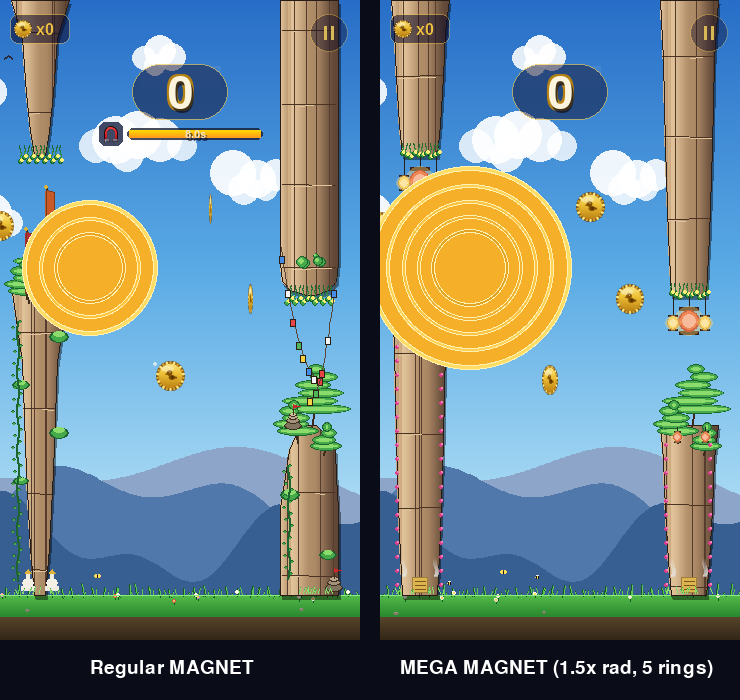
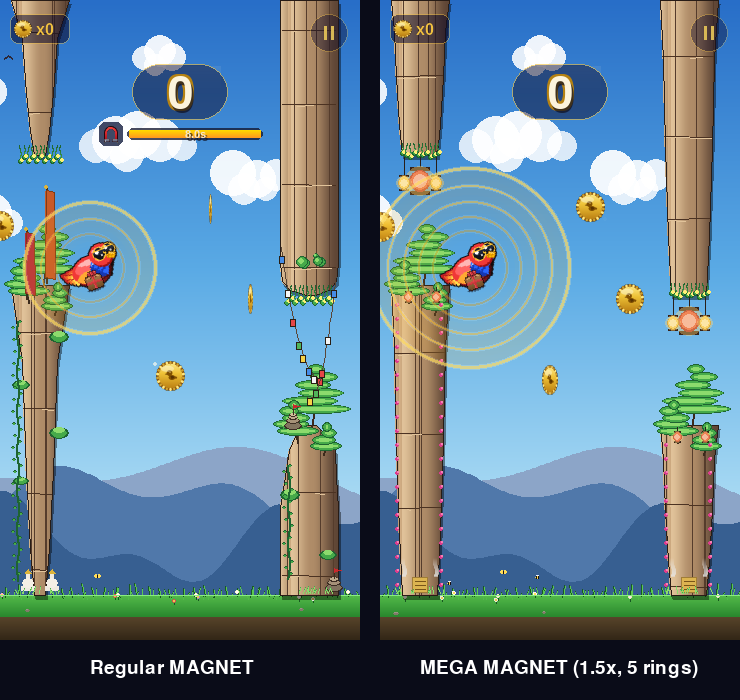
MAGNET field: fix solid-yellow regression — back to SRCALPHA sub-surface
User: "Look at the power up of the magnet, and look how the force
field of it looks like. It's not how you did it." Compared the live
render against the polished V1 reference at
docs/screenshots/powerups/magnet/field_v1_polished.png and
live_preview.png — original shows transparent rings with Pip clearly
visible inside; live shows a solid gold blob covering the bird.

Root cause traced to commit e74339a (RAIL/MEGA MAGNET wiring) which
changed scenes.py from painting the field onto a per-frame SRCALPHA
sub-surface (then blitting once) to drawing each layer DIRECTLY on
self.screen "to save the buffer alloc". With 18 nested glow circles +
3 ring passes hitting the screen, the alpha accumulates pixel-by-
pixel until the centre bakes solid. Also bumped the glow alpha from
the polished V1 calibration (40) to 72 around the same time.

Restored the polished V1 approach for both regular AND mega:
  * Paint everything to a SRCALPHA sub-surface (rad * 2 + 8 square)
  * self.screen.blit(field, ...) once at the end
  * Glow alpha back to 40 (matches the V1 design pass)

The 250 KB buffer at the mega's 1.5× radius is trivial on WASM —
the "multi-MB" concern from e74339a was based on the 2.0× V3 design
that was already dropped.

Changed region(s): [[0.4973, 0.24, 0.777, 0.54], [0.0311, 0.27, 0.2176, 0.48], [0.5284, 0.93, 0.9635, 0.99]]

diff --git a/game/scenes.py b/game/scenes.py
@@ -1138,8 +1138,14 @@ class App:
         # The force radius (MEGA_MAGNET_RADIUS_MULT = 5×) lives in
         # world.py and intentionally exceeds the visual.
         #
-        # Drawn directly onto self.screen (no intermediate SRCALPHA
-        # buffer).
+        # Painted to a per-frame SRCALPHA sub-surface then blit-ONCE to
+        # the screen — the polished V1 approach. Direct-to-screen
+        # drawing (introduced in commit e74339a to save the buffer
+        # alloc) accumulates alpha pixel-by-pixel as each of the 18
+        # glow circles + 3 ring passes hit the screen, baking the
+        # centre into a solid gold blob and losing the see-through
+        # ring outlines. With rad=1.5×, the buffer is ~250 KB —
+        # trivial on WASM.
         if self.world.magnet_timer > 0 or self.world.mega_magnet_timer > 0:
             from game.config import MAGNET_RADIUS
             import math as _math
@@ -1161,8 +1167,9 @@ class App:
                     (0.78, 0.6,  140, 2, 0.85, (255, 195,  60)),
                     (0.55, 1.2,  100, 2, 0.70, (235, 165,  35)),
                 )
-            cx_screen = int(self.world.bird.x) + sx
-            cy_screen = int(self.world.bird.y) + sy
+            field = pygame.Surface((rad * 2 + 8, rad * 2 + 8),
+                                    pygame.SRCALPHA)
+            lcx, lcy = rad + 4, rad + 4
 
             # Outer-ring pulse factor — drives BOTH the rings and the glow
             BREATH = 0.30
@@ -1172,18 +1179,19 @@ class App:
             glow_rad = rad * outer_factor
 
             # Inner radial glow — bell-curve falloff peaking near the
-            # outer edge, gold colour, scaled by the same pulse. Stays
-            # at the regular MAGNET radius in mega too — the outer
-            # rings ARE the mega's reach, the glow is the core ball.
+            # outer edge, gold colour, scaled by the same pulse.
+            # Alpha 40 matches the polished V1 calibration (was bumped
+            # to 72 in the direct-to-screen detour, causing the gold
+            # to look solid after 18 overlapping draws).
             GLOW_COL = (245, 175, 40)
             for i in range(18, 0, -1):
                 r = int(glow_rad * i / 18)
                 inner_t = i / 18
                 bell = _math.exp(-((inner_t - 0.85) ** 2) / 0.15)
-                a = int(72 * bell)
+                a = int(40 * bell)
                 if a > 0:
-                    pygame.draw.circle(self.screen, (*GLOW_COL, a),
-                                       (cx_screen, cy_screen), r)
+                    pygame.draw.circle(field, (*GLOW_COL, a),
+                                       (lcx, lcy), r)
 
             # Rings with per-ring gold tints, slightly out of phase.
             AA_COL = (255, 240, 180)
@@ -1193,12 +1201,16 @@ class App:
                 u = (s + 1) / 2
                 rr = int(rad * rfac * (1.0 - amp * (1.0 - u)))
                 # Anti-alias ring with two ⅓-alpha satellites + main pass
-                pygame.draw.circle(self.screen, (*AA_COL, alpha // 3),
-                                   (cx_screen, cy_screen), rr + 1, width)
-                pygame.draw.circle(self.screen, (*AA_COL, alpha // 3),
-                                   (cx_screen, cy_screen), rr - 1, width)
-                pygame.draw.circle(self.screen, (*ring_col, alpha),
-                                   (cx_screen, cy_screen), rr, width)
+                pygame.draw.circle(field, (*AA_COL, alpha // 3),
+                                   (lcx, lcy), rr + 1, width)
+                pygame.draw.circle(field, (*AA_COL, alpha // 3),
+                                   (lcx, lcy), rr - 1, width)
+                pygame.draw.circle(field, (*ring_col, alpha),
+                                   (lcx, lcy), rr, width)
+
+            self.screen.blit(field,
+                             (int(self.world.bird.x) + sx - lcx,
+                              int(self.world.bird.y) + sy - lcy))
 
         if self.world.hit_flash > 0:
             t = self.world.hit_flash / 0.35
